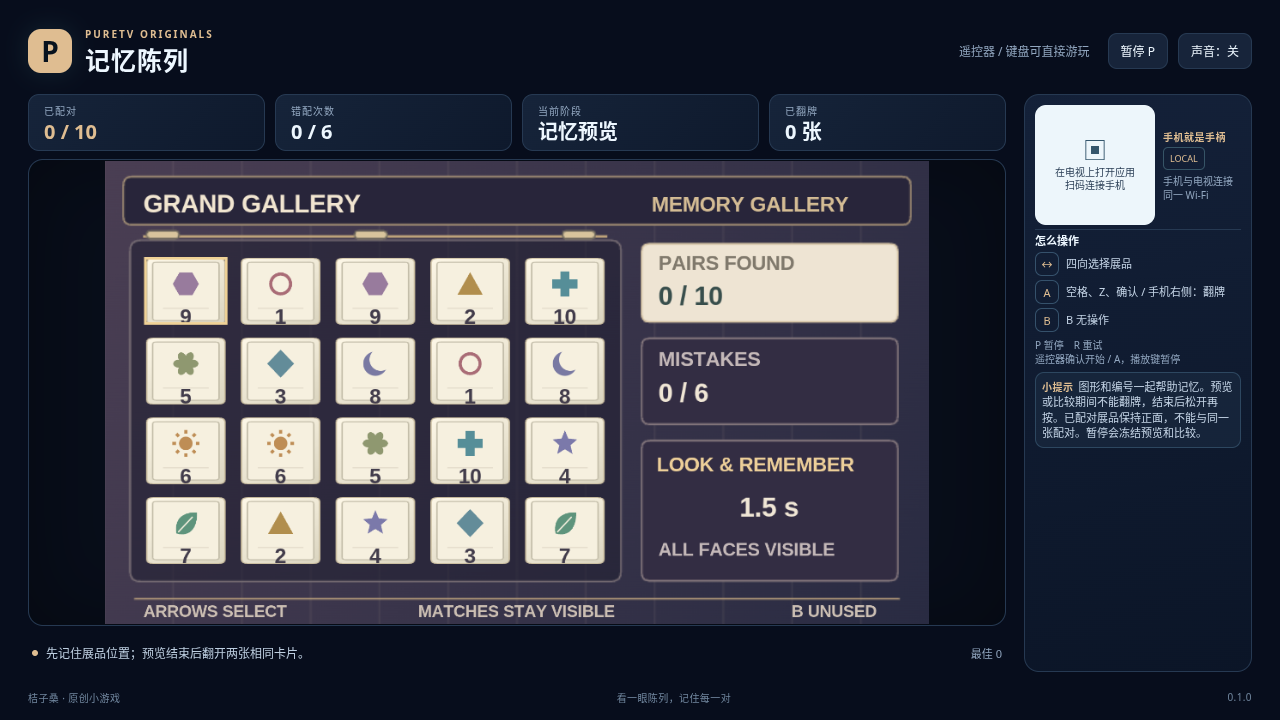
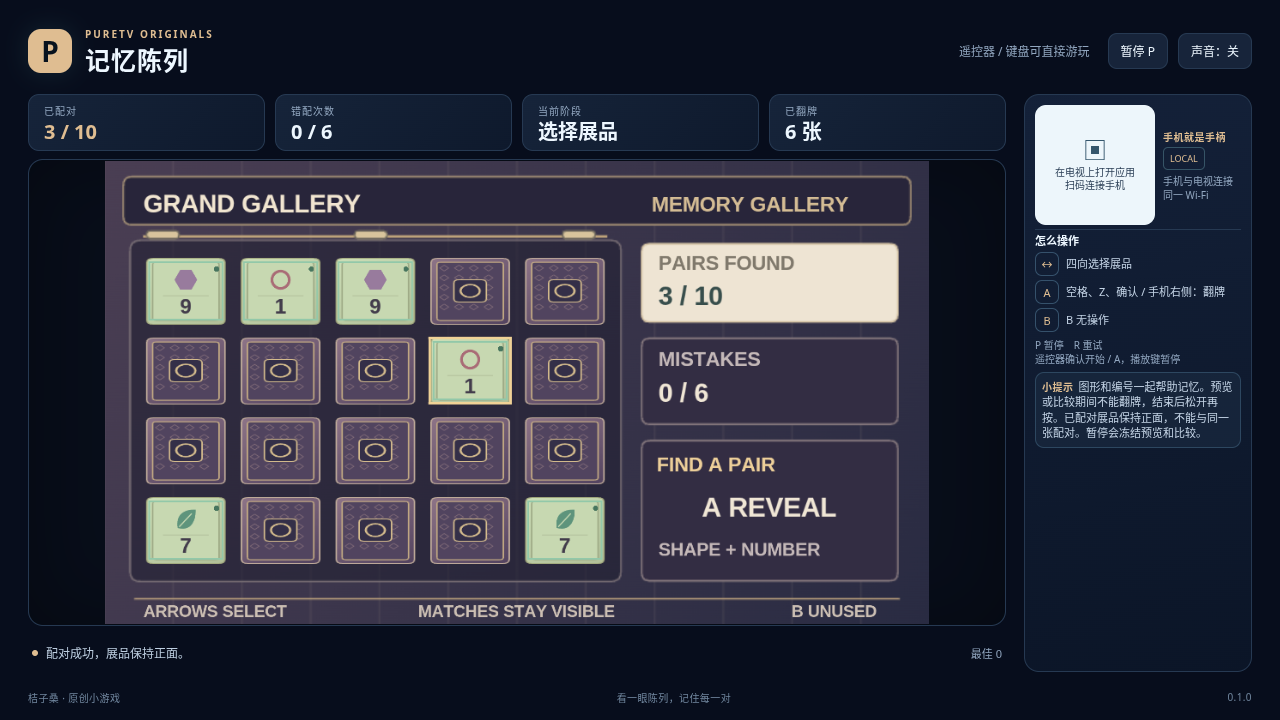
fix(memory-gallery): keep card numbers clear of matched borders

diff --git a/resource/apps/memory-gallery/src/main/assets/game.js b/resource/apps/memory-gallery/src/main/assets/game.js
@@ -37,7 +37,7 @@
     {name:'cardface',x:752,y:0,w:112,h:144,paint:function(c,w,h,art){
       round(c,3,5,106,136,9,art.linear(c,0,0,112,144,[[0,'#fff9e9'],[1,'#d9d3be']]),'#cabd9f');
       round(c,11,13,90,120,5,'#f6f0df','#c3bda9');
-      c.strokeStyle='#cec5b3';c.lineWidth=1;c.beginPath();c.moveTo(25,108);c.lineTo(87,108);c.stroke();
+      c.strokeStyle='#cec5b3';c.lineWidth=1;c.beginPath();c.moveTo(25,82);c.lineTo(87,82);c.stroke();
     }}
   ];
   for(var id=1;id<=10;id++)(function(symbol){tiles.push({name:'symbol'+symbol,x:((symbol-1)%5)*72,y:800+Math.floor((symbol-1)/5)*72,w:72,h:72,paint:function(c){shape(c,symbol);}});})(id);
@@ -51,7 +51,7 @@
     for(var i=0;i<s.visibleFaces.length;i++){
       var x=ox+(i%l.width)*slotW+slotW/2,y=oy+Math.floor(i/l.width)*slotH+slotH/2,face=s.visibleFaces[i];
       r.sprite(face===null?'cardback':'cardface',x,y,w,h,0,s.locked[i]?'#cee5ca':'#ffffff');
-      if(face!==null){var icon=Math.min(w*.58,h*.46);r.sprite('symbol'+face,x,y-h*.1,icon,icon,0,colors[face]);center(r,face,x,y+h*.23,24,'#423c4b');}
+      if(face!==null){var icon=Math.min(w*.58,h*.40);r.sprite('symbol'+face,x,y-h*.16,icon,icon,0,colors[face]);center(r,face,x,y+h/2-34,24,'#423c4b');}
       if(s.locked[i]){frame(r,x-w/2+4,y-h/2+6,w-8,h-12,'#92c8a9',2);r.circle(x+w/2-12,y-h/2+15,3,'#47755e');}
       if(s.first===i||s.second===i)frame(r,x-w/2+2,y-h/2+4,w-4,h-8,'#e2a58c',2);
       if(s.cursor===i)frame(r,x-w/2-1,y-h/2+1,w+2,h-2,'#f0d296',3);
